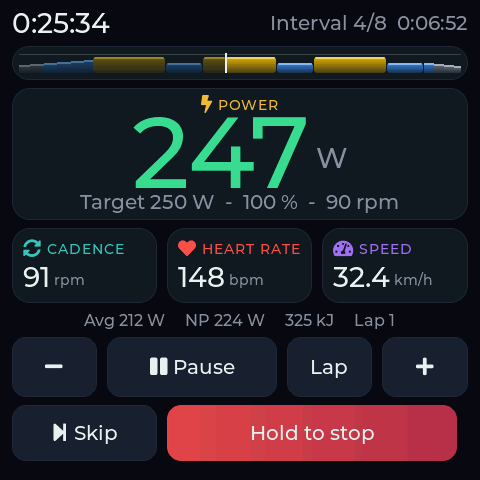
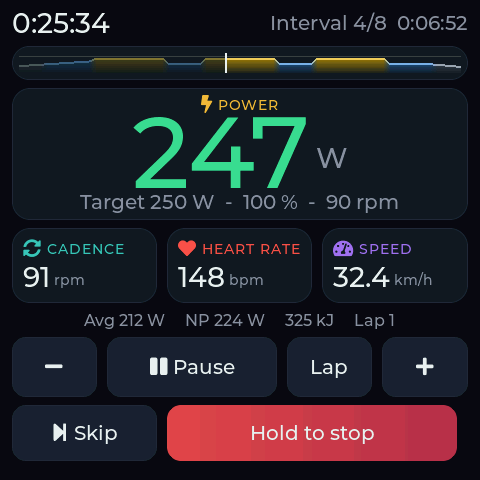
Device UI: workout profile as one continuous curve
Same look as the web app: one column per pixel, steps softened, zone colours
blended at zone changes, a light line along the top and a fade towards the floor.
The fade depends on the screen row, not on each column's height, so ramps show no
stripes. The done part stays dimmed and the position marker stays.

Changed region(s): [[0.0625, 0.0938, 0.9688, 0.1562]]

diff --git a/main/ui.c b/main/ui.c
@@ -295,32 +295,22 @@ static void fill(lv_layer_t *layer, int x1, int y1, int x2, int y2, uint32_t col
     lv_draw_rect(layer, &d, &a);
 }
 
-// A block: zone colour fading towards the floor, rounded top, light top edge
-static void block(lv_layer_t *layer, int x1, int y1, int x2, int y2, uint32_t color, lv_opa_t opa)
+// Two box blurs: steps become a short S-curve, ramps stay straight
+static void blur(const int16_t *in, int16_t *out, int n, int r)
 {
-    lv_draw_rect_dsc_t d;
-    lv_draw_rect_dsc_init(&d);
-    d.radius = x2 - x1 >= 6 ? 3 : 0;
-    d.bg_opa = opa;
-    d.bg_grad.dir = LV_GRAD_DIR_VER;
-    d.bg_grad.stops_count = 2;
-    d.bg_grad.stops[0] = (lv_grad_stop_t){.color = rgb(color), .opa = LV_OPA_COVER, .frac = 0};
-    d.bg_grad.stops[1] = (lv_grad_stop_t){.color = rgb(color), .opa = LV_OPA_30, .frac = 255};
-    lv_area_t a = {x1, y1, x2, y2};
-    lv_draw_rect(layer, &d, &a);
-    if (y2 - y1 >= 3) {
-        lv_color_t edge = lv_color_mix(lv_color_white(), rgb(color), 110);
-        lv_draw_rect_dsc_init(&d);
-        d.radius = x2 - x1 >= 6 ? 1 : 0;
-        d.bg_color = edge;
-        d.bg_opa = opa;
-        a = (lv_area_t){x1 + d.radius, y1, x2 - d.radius, y1 + 1};
-        lv_draw_rect(layer, &d, &a);
+    for (int x = 0; x < n; x++) {
+        int32_t sum = 0;
+        for (int k = x - r; k <= x + r; k++) {
+            sum += in[k < 0 ? 0 : k >= n ? n - 1 : k];
+        }
+        out[x] = (int16_t)(sum / (2 * r + 1));
     }
 }
 
-// Blocks of equal height and zone; ramps become one column per pixel. Free
-// segments are drawn flat and dark. Done part dimmed, marker at pos_s.
+// The workout as one continuous curve, as in the web app: one column per pixel,
+// softened at steps, zone colours blended at zone changes, fading towards the
+// floor, with a light line along the top. Free segments are grey. Done part
+// dimmed, marker at pos_s.
 static void draw_profile(lv_event_t *e)
 {
     const profile_t *p = lv_event_get_user_data(e);
@@ -336,33 +326,65 @@ static void draw_profile(lv_event_t *e)
     if (width <= 0 || width > BSP_LCD_W || height <= 0) {
         return;
     }
-    static uint16_t col[BSP_LCD_W];
-    static bool free_col[BSP_LCD_W];
-    uint16_t top = 1000;
+    static int16_t col[BSP_LCD_W], tmp[BSP_LCD_W], y[BSP_LCD_W];
+    static uint8_t rgb3[3][BSP_LCD_W];
+    int top = 1000;
     for (int x = 0; x < width; x++) {
         uint32_t t = (uint32_t)(((2ULL * x + 1) * w->total_s) / (2ULL * width));
         workout_pos_t pos;
         workout_at(w, t, &pos);
-        col[x] = workout_profile_at(w, t);
-        free_col[x] = pos.kind == SEG_FREE;
+        col[x] = (int16_t)workout_profile_at(w, t);
+        uint32_t c = pos.kind == SEG_FREE ? C_MUTED : zone_color((uint16_t)col[x]);
+        rgb3[0][x] = c >> 16;
+        rgb3[1][x] = c >> 8;
+        rgb3[2][x] = c;
         top = col[x] > top ? col[x] : top;
     }
     top = top + top / 10;  // headroom
-    int marker = p->pos_s < 0 ? -1 : (int)((uint64_t)p->pos_s * width / w->total_s);
-    for (int x = 0, end; x < width; x = end) {
-        // Run of equal columns, split at the marker; a 1 px gap between blocks
-        for (end = x + 1; end < width && col[end] == col[x] && free_col[end] == free_col[x] && end != marker; end++) {
+    int r = width >= 200 ? 2 : 1;
+    blur(col, tmp, width, r);
+    blur(tmp, col, width, r);
+    for (int x = 0; x < width; x++) {
+        y[x] = (int16_t)(a.y2 - col[x] * (height - 2) / top);
+    }
+    // Blend colours over a few pixels at zone changes
+    for (int c = 0; c < 3; c++) {
+        for (int x = 0; x < width; x++) {
+            tmp[x] = rgb3[c][x];
         }
-        int h = col[x] * height / top;
-        lv_opa_t opa = x < marker ? LV_OPA_40 : LV_OPA_COVER;
-        int gap = end < width && end != marker && end - x > 2 ? 1 : 0;
-        if (free_col[x]) {
-            fill(layer, a.x1 + x, a.y2 - h + 1, a.x1 + end - 1 - gap, a.y2, C_BTN, opa);
-        } else {
-            block(layer, a.x1 + x, a.y2 - h + 1, a.x1 + end - 1 - gap, a.y2, zone_color(col[x]), opa);
+        blur(tmp, col, width, 3);
+        for (int x = 0; x < width; x++) {
+            rgb3[c][x] = (uint8_t)col[x];
         }
     }
-    int ftp_y = a.y2 - 1000 * height / top;  // 100 % FTP line
+    int marker = p->pos_s < 0 ? -1 : (int)((uint64_t)p->pos_s * width / w->total_s);
+    lv_draw_rect_dsc_t d;
+    for (int x = 0; x < width; x++) {
+        lv_color_t c = lv_color_make(rgb3[0][x], rgb3[1][x], rgb3[2][x]);
+        lv_opa_t opa = x < marker ? LV_OPA_40 : LV_OPA_COVER;
+        lv_draw_rect_dsc_init(&d);
+        d.bg_opa = opa;
+        d.bg_grad.dir = LV_GRAD_DIR_VER;
+        d.bg_grad.stops_count = 2;
+        // Fade by screen row, not per column: start at this column's share of the full fade
+        lv_opa_t top_opa = (lv_opa_t)(LV_OPA_10 + (LV_OPA_90 - LV_OPA_10) * (a.y2 - y[x]) / height);
+        d.bg_grad.stops[0] = (lv_grad_stop_t){.color = c, .opa = top_opa, .frac = 0};
+        d.bg_grad.stops[1] = (lv_grad_stop_t){.color = c, .opa = LV_OPA_10, .frac = 255};
+        lv_area_t col_a = {a.x1 + x, y[x], a.x1 + x, a.y2};
+        lv_draw_rect(layer, &d, &col_a);
+        // Top line, joined to the neighbour so steep steps have no holes
+        int y1 = y[x], y2 = y[x] + 1;
+        if (x > 0) {
+            y1 = LV_MIN(y1, y[x - 1] + 1);
+            y2 = LV_MAX(y2, y[x - 1]);
+        }
+        lv_draw_rect_dsc_init(&d);
+        d.bg_color = lv_color_mix(lv_color_white(), c, 90);
+        d.bg_opa = opa;
+        col_a = (lv_area_t){a.x1 + x, y1, a.x1 + x, y2};
+        lv_draw_rect(layer, &d, &col_a);
+    }
+    int ftp_y = a.y2 - 1000 * (height - 2) / top;  // 100 % FTP line
     fill(layer, a.x1, ftp_y, a.x2, ftp_y, C_TEXT, LV_OPA_20);
     if (marker >= 0) {
         fill(layer, a.x1 + marker - 1, a.y1, a.x1 + marker, a.y2, C_TEXT, LV_OPA_COVER);
